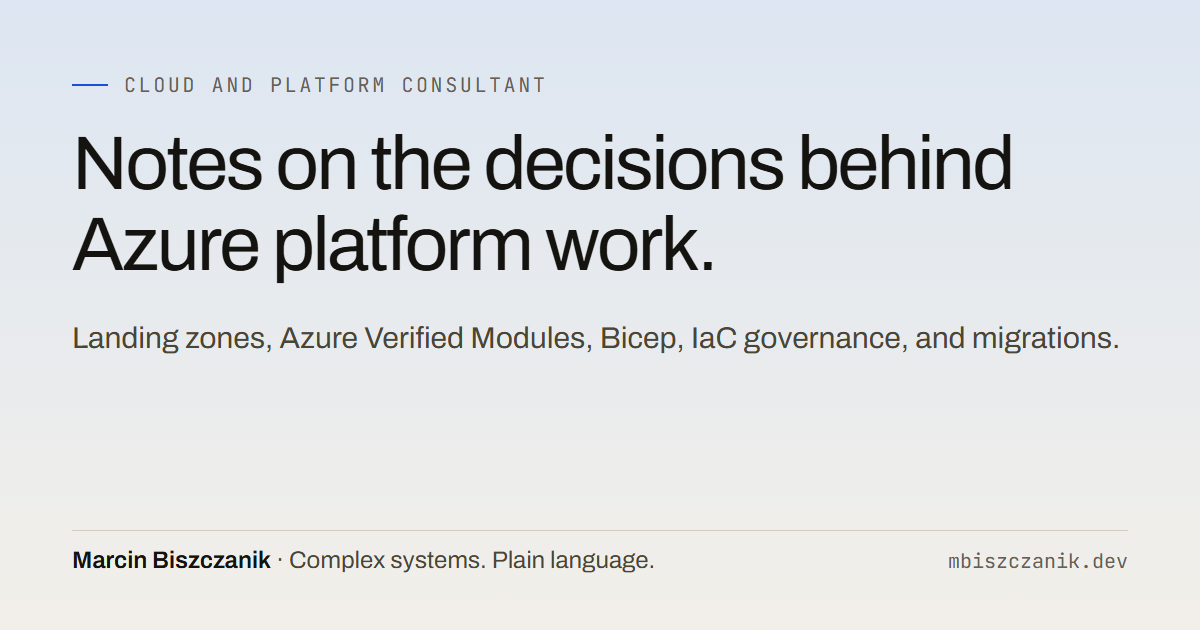
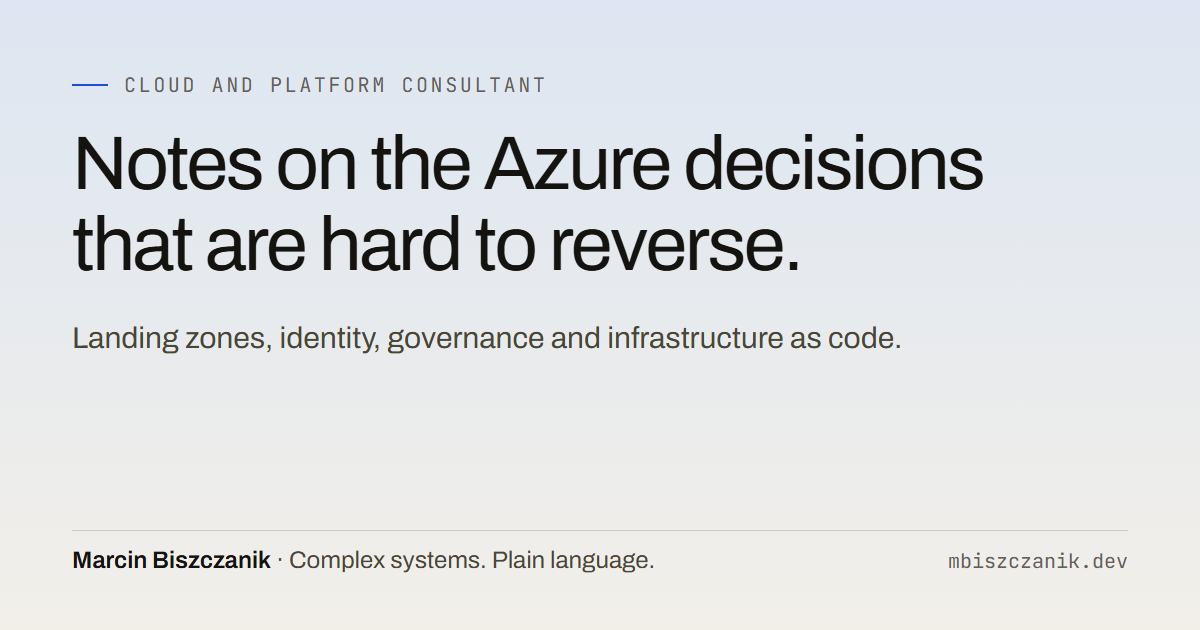
feat: per-post social cards and dev.to covers
Posts shared the generic site card, which dev.to also cropped to its
1000x420 cover ratio. npm run og now renders a 1200x630 card and a
1000x420 dev.to cover per post from its title and tags; the post page
uses its card for og:image, twitter:image and the BlogPosting image,
falling back to the site card when none exists. The site card copy now
matches the new site description.

Changed region(s): [[0.0617, 0.3317, 0.6783, 0.4524], [0.4008, 0.2111, 0.8633, 0.3016], [0.2158, 0.5127, 0.925, 0.573]]

diff --git a/scripts/og/post.html b/scripts/og/post.html
@@ -1,0 +1,41 @@
+<!doctype html>
+<!-- Per-post card in brand "Druk". generate-og-image.mjs fills {{size}}, {{eyebrow}} and {{title}},
+     then screenshots it at 1200x630 (og) and 1000x420 (dev.to cover). -->
+<html lang="en"><head><meta charset="utf-8"><style>
+@font-face{font-family:Archivo;font-weight:100 900;src:url(../../src/assets/fonts/Archivo-var-latin.woff2) format("woff2")}
+@font-face{font-family:"JetBrains Mono";font-weight:100 800;src:url(../../src/assets/fonts/JetBrainsMono-var-latin.woff2) format("woff2")}
+html,body{margin:0}
+body{background:linear-gradient(180deg,#dde6f2 0,#f2efe9 100%);font-family:Archivo,sans-serif;color:#14130f;position:relative;overflow:hidden}
+.eb{position:absolute;font-family:"JetBrains Mono",monospace;letter-spacing:.13em;text-transform:uppercase;color:#656056;white-space:nowrap}
+.eb::before{content:"";position:absolute;left:0;height:2px;background:#1d4ed8}
+h1{position:absolute;margin:0;font-weight:400;letter-spacing:-.028em;line-height:1.08}
+.sig{position:absolute;border-top:1px solid #d3ccbe;display:flex;justify-content:space-between;align-items:baseline}
+.sig b{font-weight:600}.sig span{color:#4a4635}.sig i{font-style:normal;font-family:"JetBrains Mono",monospace;color:#656056}
+
+body.og{width:1200px;height:630px}
+.og .eb{left:72px;top:72px;font-size:20px;padding-left:52px}
+.og .eb::before{top:12px;width:36px}
+.og h1{left:72px;right:72px;top:124px;font-size:64px}
+.og .sig{left:72px;right:72px;bottom:56px;padding-top:16px;font-size:24px}
+.og .sig i{font-size:20px}
+
+body.devto{width:1000px;height:420px}
+.devto .eb{left:56px;top:48px;font-size:17px;padding-left:44px}
+.devto .eb::before{top:10px;width:30px}
+.devto h1{left:56px;right:56px;top:92px;font-size:50px}
+.devto .sig{left:56px;right:56px;bottom:40px;padding-top:12px;font-size:20px}
+.devto .sig i{font-size:17px}
+</style></head><body class="{{size}}">
+<div class="eb">{{eyebrow}}</div>
+<h1>{{title}}</h1>
+<div class="sig"><div><b>Marcin Biszczanik</b> <span>· Cloud and Platform Consultant</span></div><i>mbiszczanik.dev</i></div>
+<script>
+// Once the brand fonts are in, shrink the title until it clears the signature rule with a margin.
+document.fonts.ready.then(() => {
+  const h1 = document.querySelector('h1');
+  const limit = document.querySelector('.sig').offsetTop - 32;
+  let size = parseFloat(getComputedStyle(h1).fontSize);
+  while (h1.offsetTop + h1.offsetHeight > limit && size > 24) h1.style.fontSize = `${--size}px`;
+});
+</script>
+</body></html>

diff --git a/scripts/og/og.html b/scripts/og/og.html
@@ -13,7 +13,7 @@ p{position:absolute;left:72px;top:318px;margin:0;font-size:30px;color:#4a4635;ma
 .sig b{font-weight:600}.sig span{color:#4a4635}.sig i{font-style:normal;font-family:"JetBrains Mono",monospace;color:#656056;font-size:20px}
 </style></head><body>
 <div class="eb">Cloud and Platform Consultant</div>
-<h1>Notes on the decisions behind Azure platform work.</h1>
-<p>Landing zones, Azure Verified Modules, Bicep, IaC governance, and migrations.</p>
+<h1>Notes on the Azure decisions that are hard to reverse.</h1>
+<p>Landing zones, identity, governance and infrastructure as code.</p>
 <div class="sig"><div><b>Marcin Biszczanik</b> <span>· Complex systems. Plain language.</span></div><i>mbiszczanik.dev</i></div>
 </body></html>

diff --git a/PUBLISHING.md b/PUBLISHING.md
@@ -6,14 +6,19 @@ URLs.
 
 ## Publishing a new post
 
-1. Publish the post on the blog first. Merge to `main`; Cloudflare Workers
+1. Run `npm run og` and commit the new images. It renders the post's
+   social card (`public/og/<slug>.png`, 1200x630) and its dev.to cover
+   (`public/og/<slug>-devto.png`, 1000x420) from the title and first three
+   tags. Without them the post falls back to the site card.
+2. Publish the post on the blog first. Merge to `main`; Cloudflare Workers
    Builds deploys automatically.
-2. On dev.to, create a new post and paste the same Markdown.
-3. In the dev.to post settings, set the canonical URL to the blog post URL:
+3. On dev.to, create a new post and paste the same Markdown.
+4. In the dev.to post settings, set the canonical URL to the blog post URL:
    `https://mbiszczanik.dev/blog/<slug>/`. If you use dev.to frontmatter, the
    `canonical_url` field must match the blog URL exactly, character for
-   character, including the trailing slash.
-4. Optionally post a short LinkedIn update linking to the blog post (not
+   character, including the trailing slash. Set `cover_image` to
+   `https://mbiszczanik.dev/og/<slug>-devto.png`.
+5. Optionally post a short LinkedIn update linking to the blog post (not
    the dev.to copy).
 
 ## Canonical URLs of published posts
